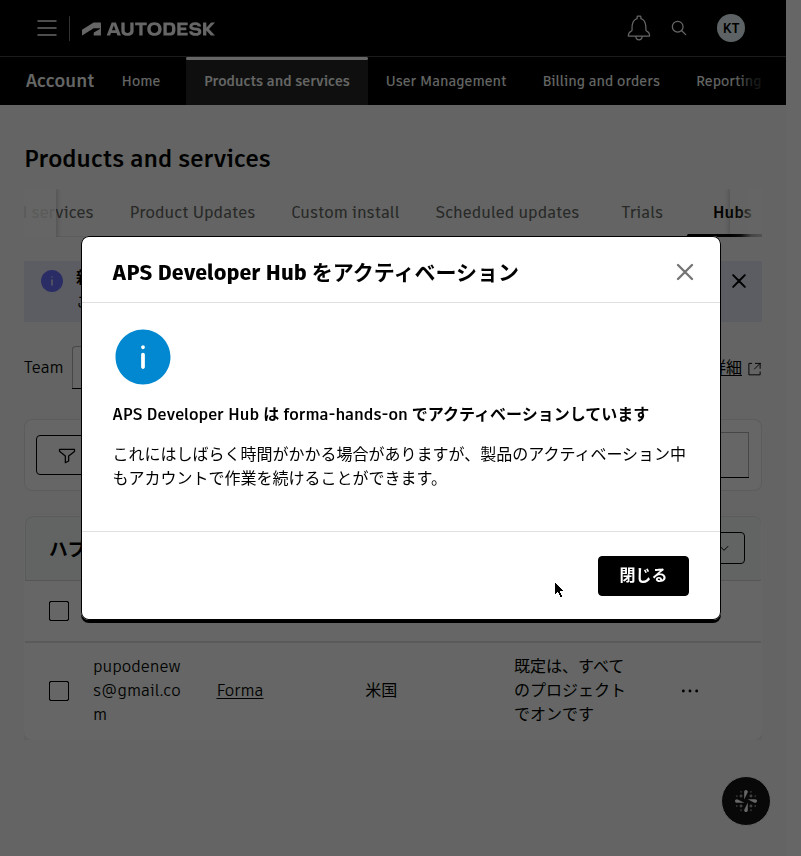
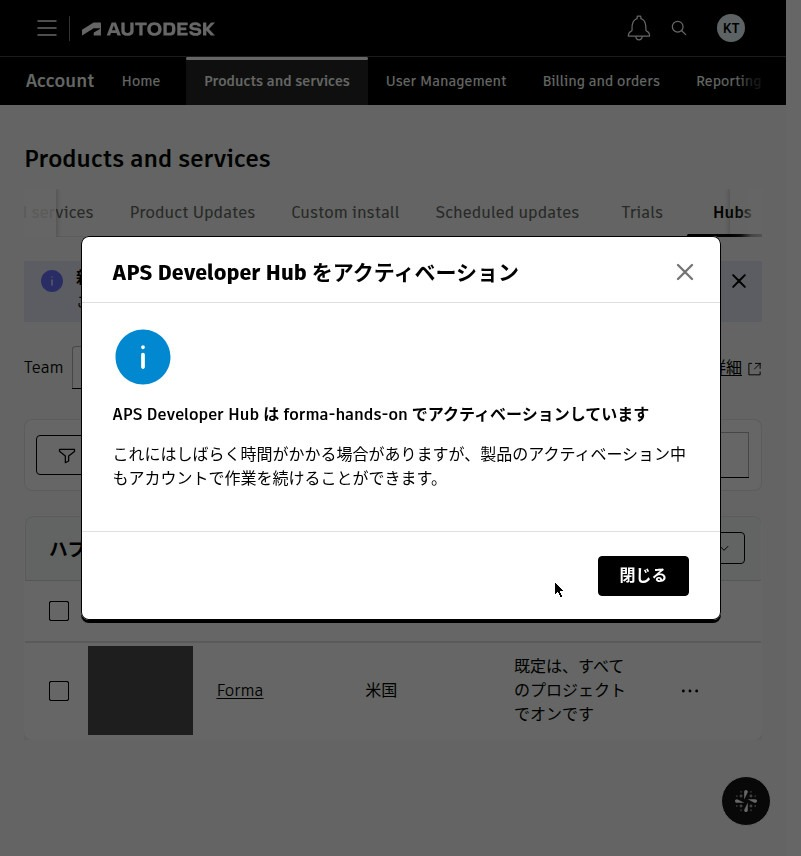
Forma記事: 114をマスク版に差し替え（参照先も新ファイル名に）、図解もv2参照に変更（Qiita画像キャッシュ回避）

Changed region(s): [[0.0936, 0.729, 0.2497, 0.8808]]

diff --git a/public/forma-api-environment-setup.md b/public/forma-api-environment-setup.md
@@ -36,7 +36,7 @@ Autodesk Forma（旧 Autodesk Construction Cloud / ACC）の API を使って自
 
 つまずきの半分は、この3つを混同することから起きます。
 
-![Forma API 環境構築の全体像](https://raw.githubusercontent.com/tkhashi/qiita/main/assets/forma-api-environment-setup/forma-overall-diagram.png)
+![Forma API 環境構築の全体像](https://raw.githubusercontent.com/tkhashi/qiita/main/assets/forma-api-environment-setup/forma-overall-diagram-v2.png)
 
 | 名前 | 何か | どこで作るか |
 |---|---|---|
@@ -132,7 +132,7 @@ Developer Hub の作成は、チームと名前を指定するセットアップ
 
 有効化が完了すると、Developer Hub がこのように使える状態になります。
 
-![Developer Hub の有効化完了](https://raw.githubusercontent.com/tkhashi/qiita/main/assets/forma-api-environment-setup/114_hub_activated.jpg)
+![Developer Hub の有効化完了](https://raw.githubusercontent.com/tkhashi/qiita/main/assets/forma-api-environment-setup/114_hub_activated-masked-v2.jpg)
 
 - Developer Hub はチームに紐づくもので、作成できるのは **team admin のみ**です[^4]
 - アプリは Traditional Web App（Authorization Code ＋ Client Credentials）を選択
